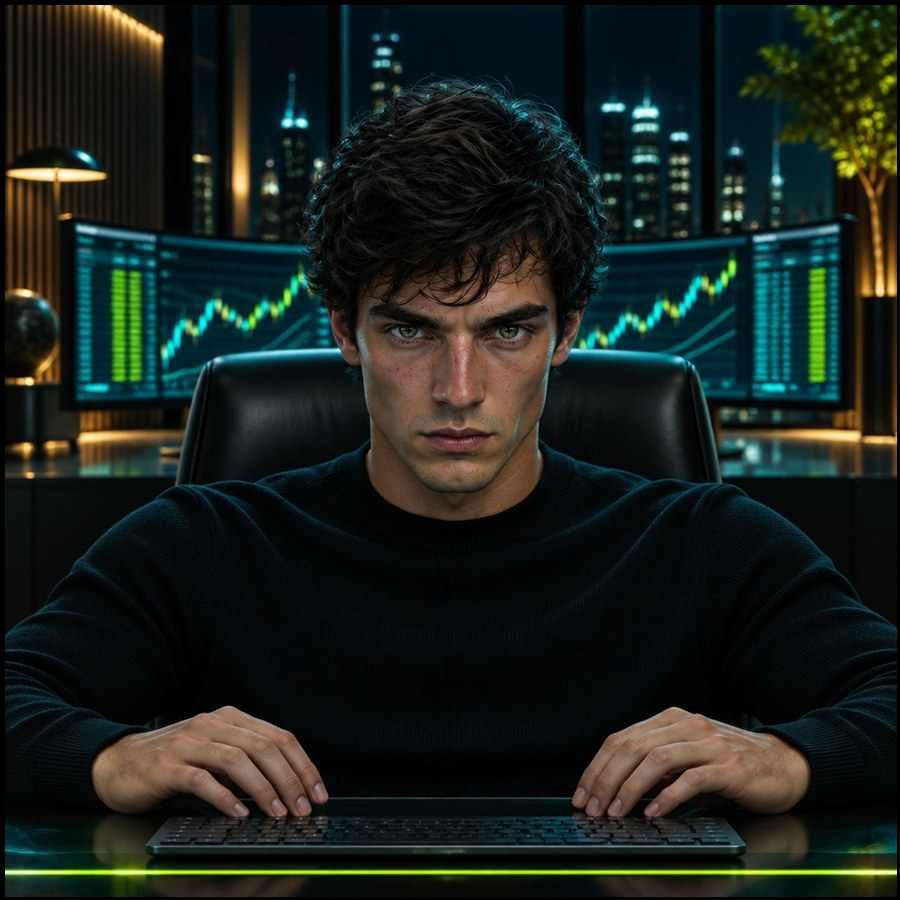
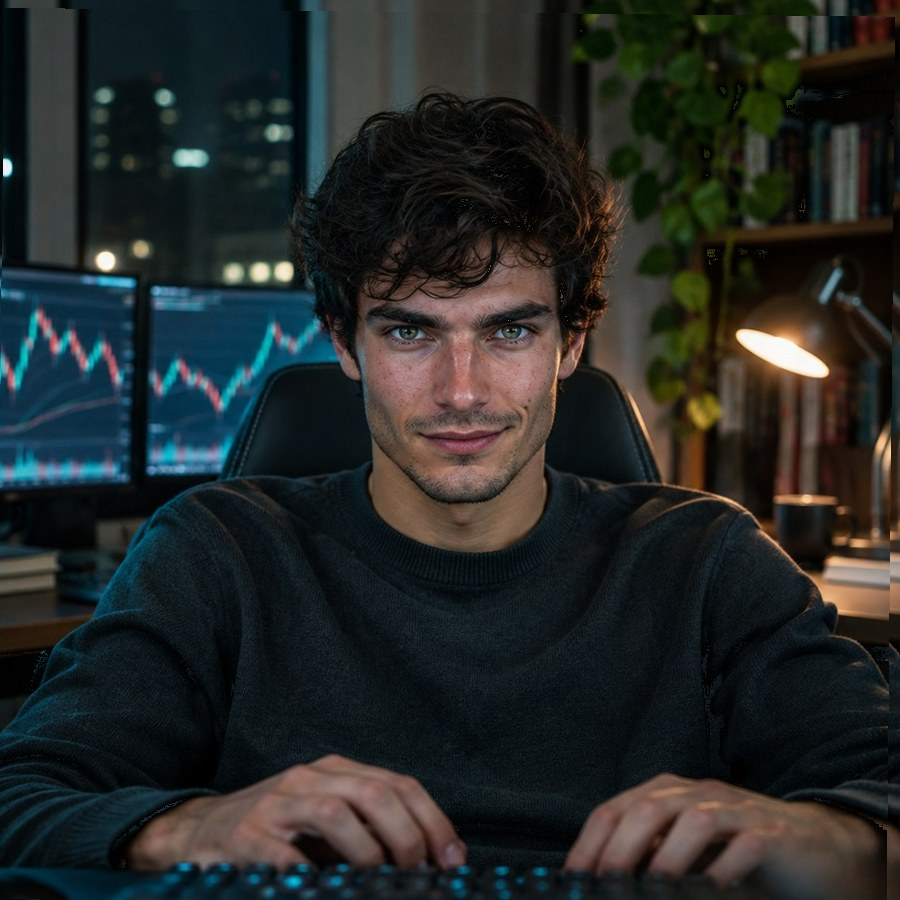
Non-prop LP: realistic revealed portrait (same man as the driver); simpler 71x example strip
Claude-Session: https://claude.ai/code/session_01ToC75EQBYa8cXQr9ksgTE2

diff --git a/non-prop/site.html b/non-prop/site.html
@@ -608,6 +608,16 @@ body.hcv .co-x span { font-size: 12.5px; }
 body.hcv .co-ex p { font-size: clamp(14px, 1.2vw, 16px); }
 @media (max-width: 900px) { body.hcv .acc { grid-template-columns: repeat(3, 1fr); } body.hcv .cc-vs { margin: -10px 0; } }
 
+/* 71x strip, simplified: two clean rows */
+.co-row { display: grid; grid-template-columns: 7.5em auto 1fr; align-items: baseline; gap: 14px; padding: 8px 0; border-top: 1px solid rgba(255,255,255,.08); }
+.co-row:first-of-type { border-top: 0; }
+.co-row > span { font-size: 14px; font-weight: 600; }
+.co-row b { font-size: clamp(22px, 2.2vw, 30px); font-weight: 600; letter-spacing: -.03em; color: #fff; }
+.co-row b.g { color: var(--lime); }
+.co-row em { font-style: normal; font-size: 13.5px; color: var(--mute); text-align: right; }
+body.hcv .co-row b { font-size: clamp(18px, 1.7vw, 24px); }
+@media (max-width: 600px) { .co-row { grid-template-columns: 1fr auto; gap: 2px 10px; } .co-row em { grid-column: 1 / -1; text-align: left; } }
+
 /* program tabs */
 .ptabs { display: grid; grid-template-columns: repeat(3, 1fr); gap: 12px; max-width: 1080px; margin: 0 auto 18px; }
 .pt { appearance: none; cursor: pointer; text-align: left; padding: 20px 22px; border-radius: 22px; border: 1px solid rgba(143,243,232,.22); background: linear-gradient(170deg, rgba(10,44,50,.8), rgba(4,16,20,.92)); color: #fff; font: inherit; transition: transform .3s var(--ease), border-color .3s, background .3s, box-shadow .3s; }
@@ -1178,11 +1188,11 @@ body.editing .rv.pre { opacity: 1 !important; transform: none !important; }
         </article>
       </div>
       <div class="cmp-out rv">
-        <div class="co-x"><b class="tnum" id="cX">143×</b><span>less money on the line</span></div>
+        <div class="co-x"><b class="tnum" id="cX">143×</b><span>less money at risk</span></div>
         <div class="co-ex">
-          <span class="co-k">Example: a +10% month</span>
-          <p><span class="r">Broker:</span> <b class="tnum" id="cExBk">+$5,000</b>, after putting in <b class="tnum" id="cExBkIn">$50,000</b> of your own money.</p>
-          <p><span class="g">FundingRock:</span> <b class="g tnum" id="cExFr">$4,000 Reward</b>, after paying a <b class="tnum" id="cExFrIn">$350</b> fee.</p>
+          <span class="co-k">A +10% month</span>
+          <div class="co-row"><span class="r">Broker</span><b class="tnum" id="cExBk">+$5,000</b><em>you risk <span class="tnum" id="cExBkIn">$50,000</span></em></div>
+          <div class="co-row"><span class="g">FundingRock</span><b class="g tnum" id="cExFr">+$4,000</b><em>you risk <span class="tnum" id="cExFrIn">$350</span></em></div>
         </div>
       </div>
       <p class="cmp-note">Simulated trading. Rewards are not guaranteed. Example for illustration.</p>
@@ -1799,7 +1809,7 @@ body.editing .rv.pre { opacity: 1 !important; transform: none !important; }
     $("#cBkRisk").textContent = fmt(a); $("#cFrRisk").textContent = fmt(f) + ", one time"; $("#cFrTag").textContent = "Only " + fmt(f) + " at risk";
     $("#cX").textContent = Math.round(a / f) + "×";
     $("#cExBk").textContent = "+" + fmt(a * .1); $("#cExBkIn").textContent = fmt(a);
-    $("#cExFr").textContent = fmt(a * .1 * .8) + " Reward"; $("#cExFrIn").textContent = fmt(f);
+    $("#cExFr").textContent = "+" + fmt(a * .1 * .8); $("#cExFrIn").textContent = fmt(f);
     if (cIn) { $("#cBkBar").style.width = "100%"; $("#cFrBar").style.width = Math.max(f / a * 100, 1.2).toFixed(2) + "%"; }
   }
   $$("#cSizes .ac").forEach(function (b, i) { b.addEventListener("click", function () { cI = i; $$("#cSizes .ac").forEach(function (c, j) { c.setAttribute("aria-pressed", j === i); }); cRender(true); }); });
